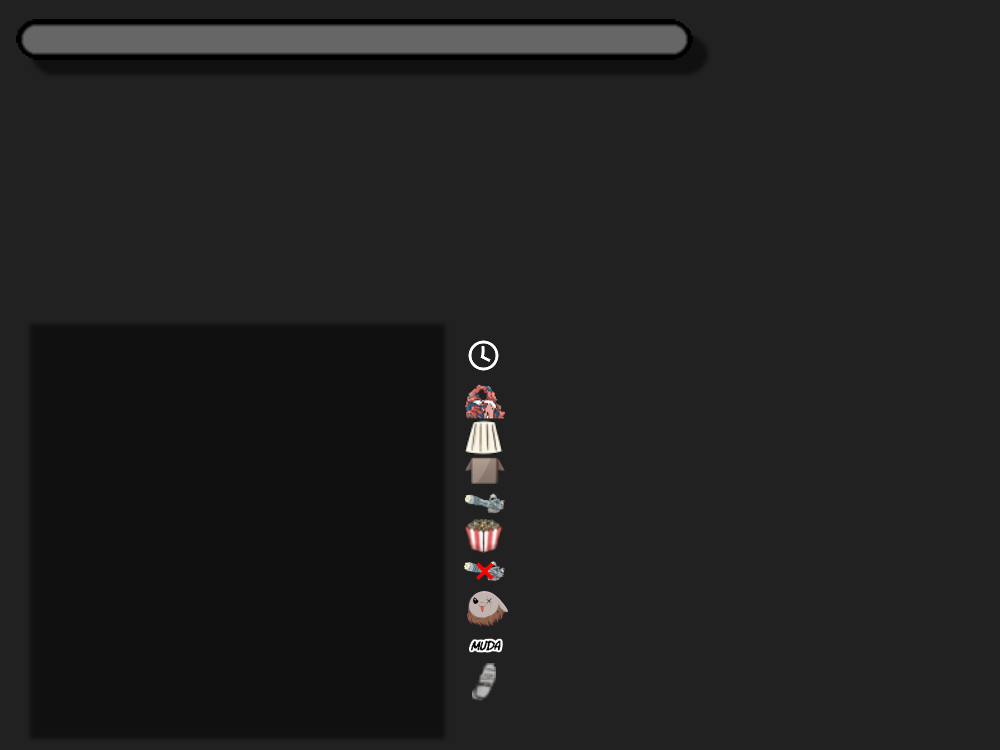
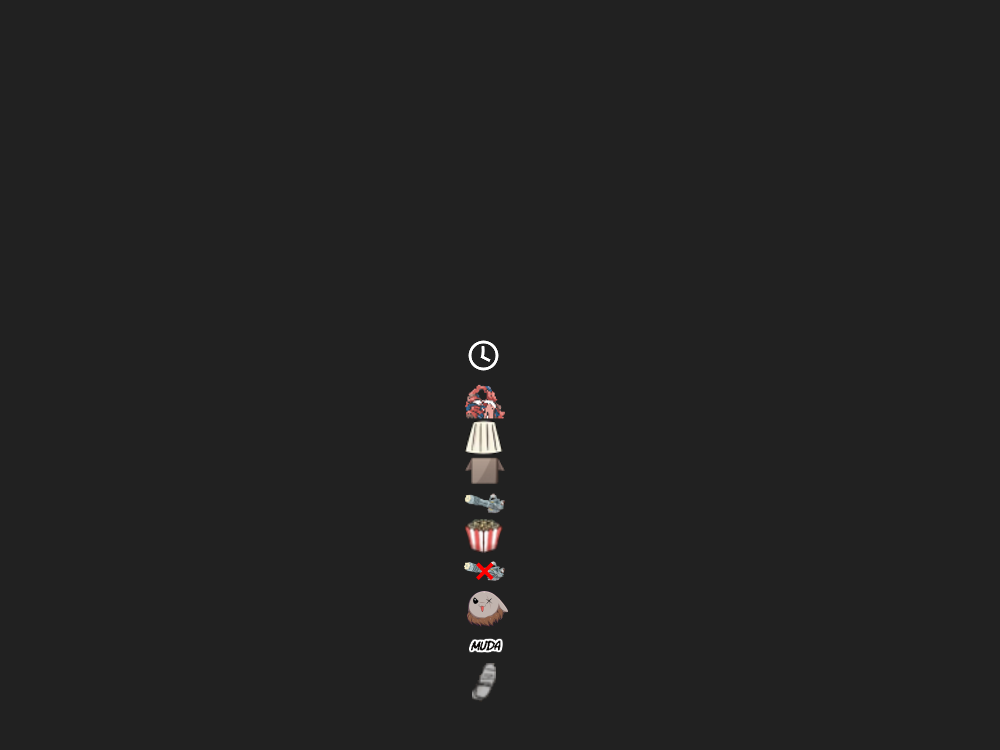
commit

Changed region(s): [[0.0, 0.0, 0.713, 0.092]]

diff --git a/d20/function.ts b/d20/function.ts
@@ -1,5 +1,5 @@
-import { Canvas, createCanvas, loadImage, registerFont } from "canvas";
-import { Message } from "discord.js";
+import { Canvas, createCanvas, Image, loadImage, NodeCanvasRenderingContext2D, registerFont } from "canvas";
+import { GuildMember, Message } from "discord.js";
 import { createWriteStream } from "fs";
 import { database } from "..";
 import assets from "../assetsIndexes";
@@ -16,35 +16,195 @@ export async function countMessages(msg: Message) {
     database.child(database_lvl_path).set(messages);
 }
 
-function createXpBar(style: string, color: string) {
+function createXpBar(style: string, color_a: string, color_b: string = '#000000'): Promise<Canvas> {
     return new Promise(async (resolve, reject) => {
         let [width, height] = [664, 29];
-        let canvas = createCanvas(width, height);
-        let ctx = canvas.getContext('2d');
+        let paint = (bar: Image, color: string) => {
+            let canvas = createCanvas(width, height);
+            let ctx = canvas.getContext('2d');
+
+            ctx.drawImage(bar, 0, 0);
+            ctx.globalCompositeOperation = "color";
+            ctx.fillStyle = color;
+            ctx.fillRect(0, 0, width, height);
+
+            return canvas;
+        }
+        let send = async (canvas: Canvas) => {
+            let ctx = canvas.getContext('2d');
+            ctx.globalCompositeOperation = "destination-out";
+            ctx.drawImage(await loadImage('./assets/d20/card/xpbar/blank.png'), 0, 0);
+            resolve(canvas);
+        }
+
         let xp_bar = await loadImage('./assets/d20/card/xpbar/' + style + '.png');
-        ctx.drawImage(xp_bar, 0, 0);
-        ctx.globalCompositeOperation = "color";
-        ctx.fillStyle = color;
-        ctx.fillRect(0, 0, width, height);
-        ctx.globalCompositeOperation = "destination-out";
-        ctx.drawImage(await loadImage('./assets/d20/card/xpbar/blank.png'), 0, 0);
-        resolve(canvas);
-    })
+        let canvas = paint(xp_bar, color_a);
+        let ctx = canvas.getContext('2d');
+
+        if (style.includes('dual')) {
+            let xp_bar2 = await loadImage('./assets/d20/card/xpbar/' + style + '2.png');
+            ctx.globalCompositeOperation = "destination-out";
+            ctx.drawImage(xp_bar2, 0, 0);
+
+            let canvas2 = paint(xp_bar2, color_b);
+            let ctx2 = canvas2.getContext('2d');
+
+            ctx2.globalCompositeOperation = "destination-out";
+            ctx2.drawImage(xp_bar, 0, 0);
+
+            ctx.globalCompositeOperation = "source-over";
+            ctx.drawImage(canvas2, 0, 0);
+            send(canvas)
+        } else send(canvas);
+    });
 }
 
-export function createCard(username: string, level: number, messages: number, title: string, guild: string, prestige: number, position: number, time_on_server: number, warnings: number, message_to_levelup: number): Promise<Canvas> {
+type StatsObject = {
+    sleep: number
+    lamp: number
+    box: number
+    kill: number
+    popcorn: number
+    spare: number
+    yeet: number
+    punch: number
+    kick: number
+}
+type CardOptions = {
+    username: string
+    level: number
+    messages: number
+    title?: string
+    guild?: string
+    prestige?: number
+    position: number
+    time_on_server: number
+    warnings: number
+    message_to_levelup: number
+    nextlevel_min_messages: number
+    percentage: number
+    avatar_url: string
+    xp_bar: {
+        style: string,
+        color_a: string,
+        color_b?: string
+    },
+    stats: StatsObject,
+    target: GuildMember
+}
+
+const gold_font_color = '#FFDF00';
+const silver_font_color = '#C0C0C0';
+const bronze_font_color = '#CD7F32';
+const podium_fonts = [gold_font_color, silver_font_color, bronze_font_color];
+
+export function createCard(cardoptions: CardOptions): Promise<Canvas> {
     return new Promise(async (resolve, reject) => {
         let canvas = createCanvas(1000, 750);
         let ctx = canvas.getContext('2d');
         ctx.font = '32px "LETTERER"';
-        ctx.fillStyle = '#212121';
-        ctx.fillRect(0, 0, canvas.width, canvas.height);
-        ctx.fillStyle = '#FFDF00';
-        ctx.shadowColor = '#000000';
+        // ctx.fillStyle = '#212121';
+        // ctx.fillRect(0, 0, canvas.width, canvas.height);
+
+        ctx.drawImage(await loadImage('./assets/d20/card/background.png'), 0, 0);
+
+        ctx.shadowColor = '#111111';
         ctx.shadowBlur = 5;
-        ctx.shadowOffsetY = 5;
-        ctx.shadowOffsetX = 5;
-        ctx.drawImage(await createXpBar('stripesb', '#00FFFF'), 0, 0);
+        ctx.shadowOffsetY = 10;
+        ctx.shadowOffsetX = 10;
+
+        ctx.drawImage(await loadImage('./assets/d20/card/xpbar/bg.png'), 16, 19);
+        let xp_bar = await createXpBar(cardoptions.xp_bar.style, cardoptions.xp_bar.color_a, cardoptions.xp_bar.color_b);
+        ctx.shadowColor = '#00000000';
+        ctx.drawImage(xp_bar, 0, 0, xp_bar.width * cardoptions.percentage, xp_bar.height, 22, 25, xp_bar.width * cardoptions.percentage, xp_bar.height);
+        ctx.shadowColor = '#111111';
+
+        let avatar = await loadImage(cardoptions.avatar_url);
+        ctx.drawImage(avatar, 15, 309, 415, 415);
+
+        ctx.shadowColor = '#000000';
+        ctx.shadowBlur = 1;
+        ctx.shadowOffsetY = 6;
+        ctx.shadowOffsetX = 6;
+
+        ctx.fillStyle = '#FFFFFF';
+        ctx.fillText(cardoptions.username, 15, 301);
+        ctx.fillText(`Level: ${cardoptions.level}`, 800, 49);
+        ctx.fillText(`${cardoptions.messages} messages sent`, 40, 140);
+        ctx.fillText(cardoptions.stats['sleep'].toString(), 521, 384 + 24);
+        ctx.fillText(cardoptions.stats['lamp'].toString(), 521, 417 + 24);
+        ctx.fillText(cardoptions.stats['box'].toString(), 521, 457 + 24);
+        ctx.fillText(cardoptions.stats['kill'].toString(), 521, 491 + 24);
+        ctx.fillText(cardoptions.stats['popcorn'].toString(), 521, 524 + 24);
+        ctx.fillText(cardoptions.stats['spare'].toString(), 521, 558 + 24);
+        ctx.fillText(cardoptions.stats['yeet'].toString(), 521, 594 + 24);
+        ctx.fillText(cardoptions.stats['punch'].toString(), 521, 632 + 24);
+        ctx.fillText(cardoptions.stats['kick'].toString(), 521, 668 + 24);
+
+
+        if (!cardoptions.prestige) cardoptions.prestige = 0;
+        if (cardoptions.level < (15 + (cardoptions.prestige * 5))) {
+            ctx.fillText(`${cardoptions.message_to_levelup} left`, 40, 104);
+            ctx.fillText(`${cardoptions.nextlevel_min_messages}`, 650, 104);
+            ctx.fillText(`${Math.floor(cardoptions.percentage * 100)}%`, 710, 49);
+        } else {
+            ctx.fillText(`MAX LEVEL`, 40, 104);
+            ctx.fillText(`MAX LEVEL`, 650, 104);
+            ctx.fillText(`100%`, 710, 49);
+        }
+
+        if (cardoptions.title) ctx.fillText(cardoptions.title, 15, 259);
+
+
+        let badge_positions = [665, 601, 537, 473]
+        let badges = [];
+        let badge_patreon = await loadImage('./assets/d20/card/patreon.png');
+        let badge_booster = await loadImage('./assets/d20/card/booster.png');
+        let badge_trivium = await loadImage('./assets/d20/card/triviumLogo.png');
+        if (cardoptions.target.roles.cache.has('579230527140134923') || cardoptions.target.roles.cache.has('609593848448155668') || cardoptions.target.roles.cache.has('579231612924067840')) badges.push(badge_trivium);
+        if (cardoptions.target.roles.cache.has('715775653991153726')) badges.push(badge_booster);
+        if (cardoptions.target.roles.cache.has('795925053689692200') || cardoptions.target.roles.cache.has('795922644016824360') || cardoptions.target.roles.cache.has('795921622862659585') || cardoptions.target.roles.cache.has('795920588463800320')) badges.push(badge_patreon);
+        for (let b in badges) ctx.drawImage(badges[b], 630, badge_positions[b]);
+
+        if (cardoptions.target.user.bot) ctx.drawImage(await loadImage('./assets/d20/card/bot.png'), 906, 605);
+
+        if (cardoptions.title) ctx.fillText(cardoptions.title, 15, 235 + 24);
+        if (cardoptions.guild) ctx.fillText(cardoptions.guild, 800, 73 + 24);
+
+        ctx.fillText(`${cardoptions.time_on_server.toString()} months`, 521, 340 + 24);
+        ctx.fillText(`${cardoptions.warnings.toString()} warning(s)`, 40, 159 + 24);
+
+        let position_change = cardoptions.position < 10 ? 0 : cardoptions.position < 100 ? 16 : 32;
+        ctx.fillStyle = cardoptions.position <= 3 ? podium_fonts[cardoptions.position - 1] : "#FFFFFF"
+        ctx.fillText(`#${cardoptions.position}`, 900 - position_change, 704);
+
+        ctx.fillStyle = gold_font_color;
+        if (cardoptions.prestige > 0) ctx.fillText(`Prestige ${cardoptions.prestige}`, 700, 680 + 24);
+
         resolve(canvas);
     });
+}
+
+export function getposition(id: string): Promise<number> {
+    return new Promise((resolve, reject) => {
+        database.child('lvl').once('value').then(a => {
+            let messages = a.val()[id];
+            let ranking: number[] = Object.values(a.val());
+            ranking.sort((a, b) => b - a);
+            for (let i = 0; i < ranking.length; i++)
+                if (messages == ranking[i])
+                    resolve(i + 1);
+        });
+    });
+}
+
+
+const lvl_base = 18;
+const xp_cost_increase = 22;
+export const getLevelCost = (level: number): number => (level - 1) * (lvl_base + (xp_cost_increase / 2 * (level - 2)));
+export const accountForPrestige = (messages = 0, prestige = 0) => { for (let p = 1; p <= prestige; p++) messages -= getLevelCost((15 + (5 * (p - 1)))); return messages };
+export function getLevel(messages = 0, prestige = 0) {
+    messages = accountForPrestige(messages, prestige);
+    for (let l = 0; l < 15 + (5 * (prestige + 1)); l++) if (messages < getLevelCost(l)) return Math.max(0, l - 1);
+    return 15 + (5 * (prestige));
 }

diff --git a/common/index.ts b/common/index.ts
@@ -1,0 +1,95 @@
+import { database } from "..";
+import { d20 } from "../clients";
+import { accountForPrestige, createCard, getLevel, getLevelCost, getposition } from "../d20/function";
+import { getMember, getTarget, say } from "./functions";
+import { testChannelId } from "./variables";
+const defaultstyle = {
+    type: 'normal',
+    color: '#00FFFF',
+    colorb: '#000000',
+}
+
+const defaultstats = {
+    sleep: 0,
+    lamp: 0,
+    box: 0,
+    kill: 0,
+    popcorn: 0,
+    spare: 0,
+    yeet: 0,
+    punch: 0,
+    kick: 0,
+}
+
+d20.on('messageCreate', async (msg) => {
+    if (!msg || !msg.member || !msg.author || msg.author.bot) return;
+    // if (msg.channelId != testChannelId) return;
+    let args = msg.content;
+    if (args.startsWith('!')) {
+        args = args.replace(/!/, '');
+        switch (args.split(' ')[0]) {
+            case 'card_tsc':
+                msg.channel.sendTyping();
+                let target = msg.mentions.members?.first();
+                if (!target) target = msg.member;
+
+                let messages = await (await database.child('lvl/' + target.id).once('value')).val();
+
+                let prestige = await (await database.child('prestige/' + target.id).once('value')).val();
+                let style = await (await database.child(`card/${target.id}`).once('value')).val();
+                let stats = await (await database.child('stats/' + target.id).once('value')).val();
+                let warnings_aux = await (await database.child('warnings/' + msg.guildId + '/' + target.id).once('value')).val();
+                let guild = await (await database.child('guild/' + target.id).once('value')).val();
+                if (guild) guild = guild[0];
+
+                let level = getLevel(messages, prestige);
+                let position = await getposition(target.id);
+
+                if (!style) style = defaultstyle;
+                if (!style['type']) style['type'] = defaultstyle['type'];
+                if (!style['color']) style['color'] = defaultstyle['color'];
+                if (!style['colorb']) style['colorb'] = defaultstyle['colorb'];
+
+                if (!stats) stats = defaultstats;
+
+                let date = target.joinedAt;
+                let now = new Date(Date());
+                if (!date) date = now;
+                let months = (((now.getUTCFullYear() - date.getUTCFullYear()) * 12) + (now.getUTCMonth() - date.getUTCMonth()));
+
+
+                let nextlevel_min_messages = getLevelCost(level + 1);
+                let message_to_levelup = getLevelCost(level + 1) - accountForPrestige(messages, prestige);
+
+
+                let percentage = (accountForPrestige(messages, prestige) - getLevelCost(level)) / (getLevelCost(level + 1) - getLevelCost(level));
+                let warnings = 0;
+                if (warnings_aux && typeof warnings_aux == 'object' && warnings_aux.length) warnings = warnings_aux.length;
+
+                let card = (await createCard({
+                    avatar_url: target.user.displayAvatarURL({ format: 'png', size: 1024 }),
+                    target: target,
+                    level: level,
+                    message_to_levelup: message_to_levelup,
+                    messages: messages,
+                    nextlevel_min_messages: nextlevel_min_messages,
+                    percentage: percentage,
+                    position: position,
+                    time_on_server: months,
+                    username: target.displayName,
+                    warnings: warnings,
+                    xp_bar: {
+                        style: style['type'],
+                        color_a: style['color'],
+                        color_b: style['color2']
+                    },
+                    guild: guild,
+                    prestige: prestige,
+                    title: style['title'],
+                    stats: stats
+                })).toBuffer();
+                msg.channel.send({ files: [card] });
+                break;
+        }
+    }
+})

diff --git a/index.ts b/index.ts
@@ -18,3 +18,4 @@ export const database = admin.database().ref();
 import "./krystal/index"
 import "./sadie/index"
 import "./d20/index"
+import "./common/index"
